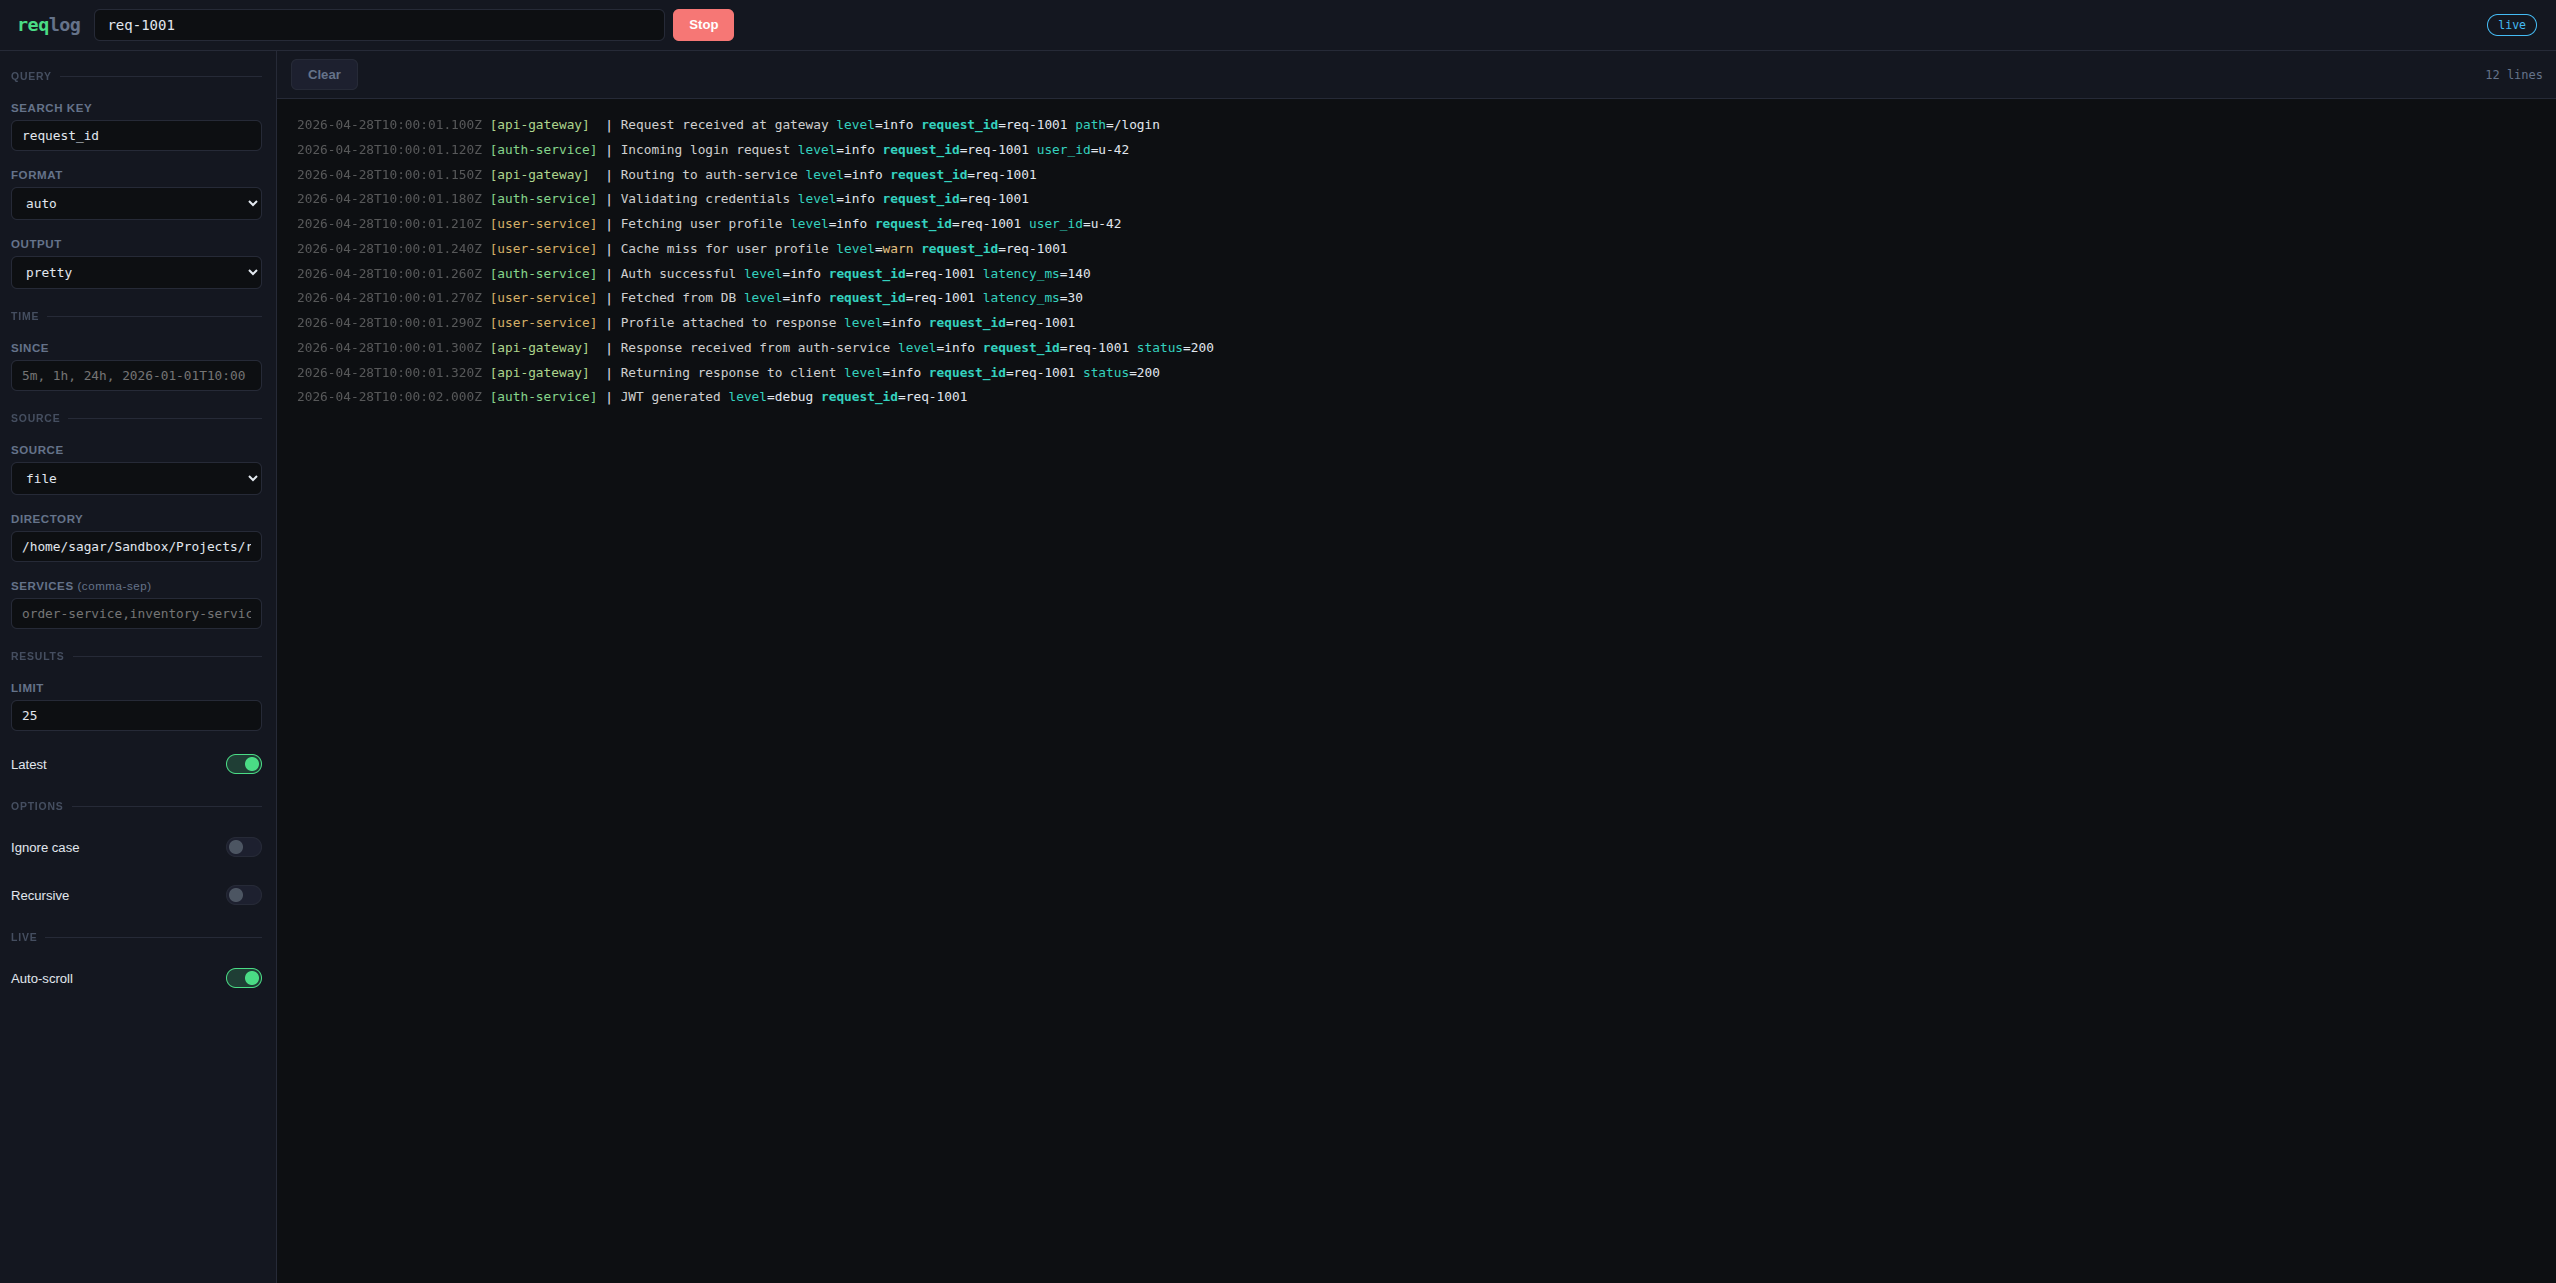
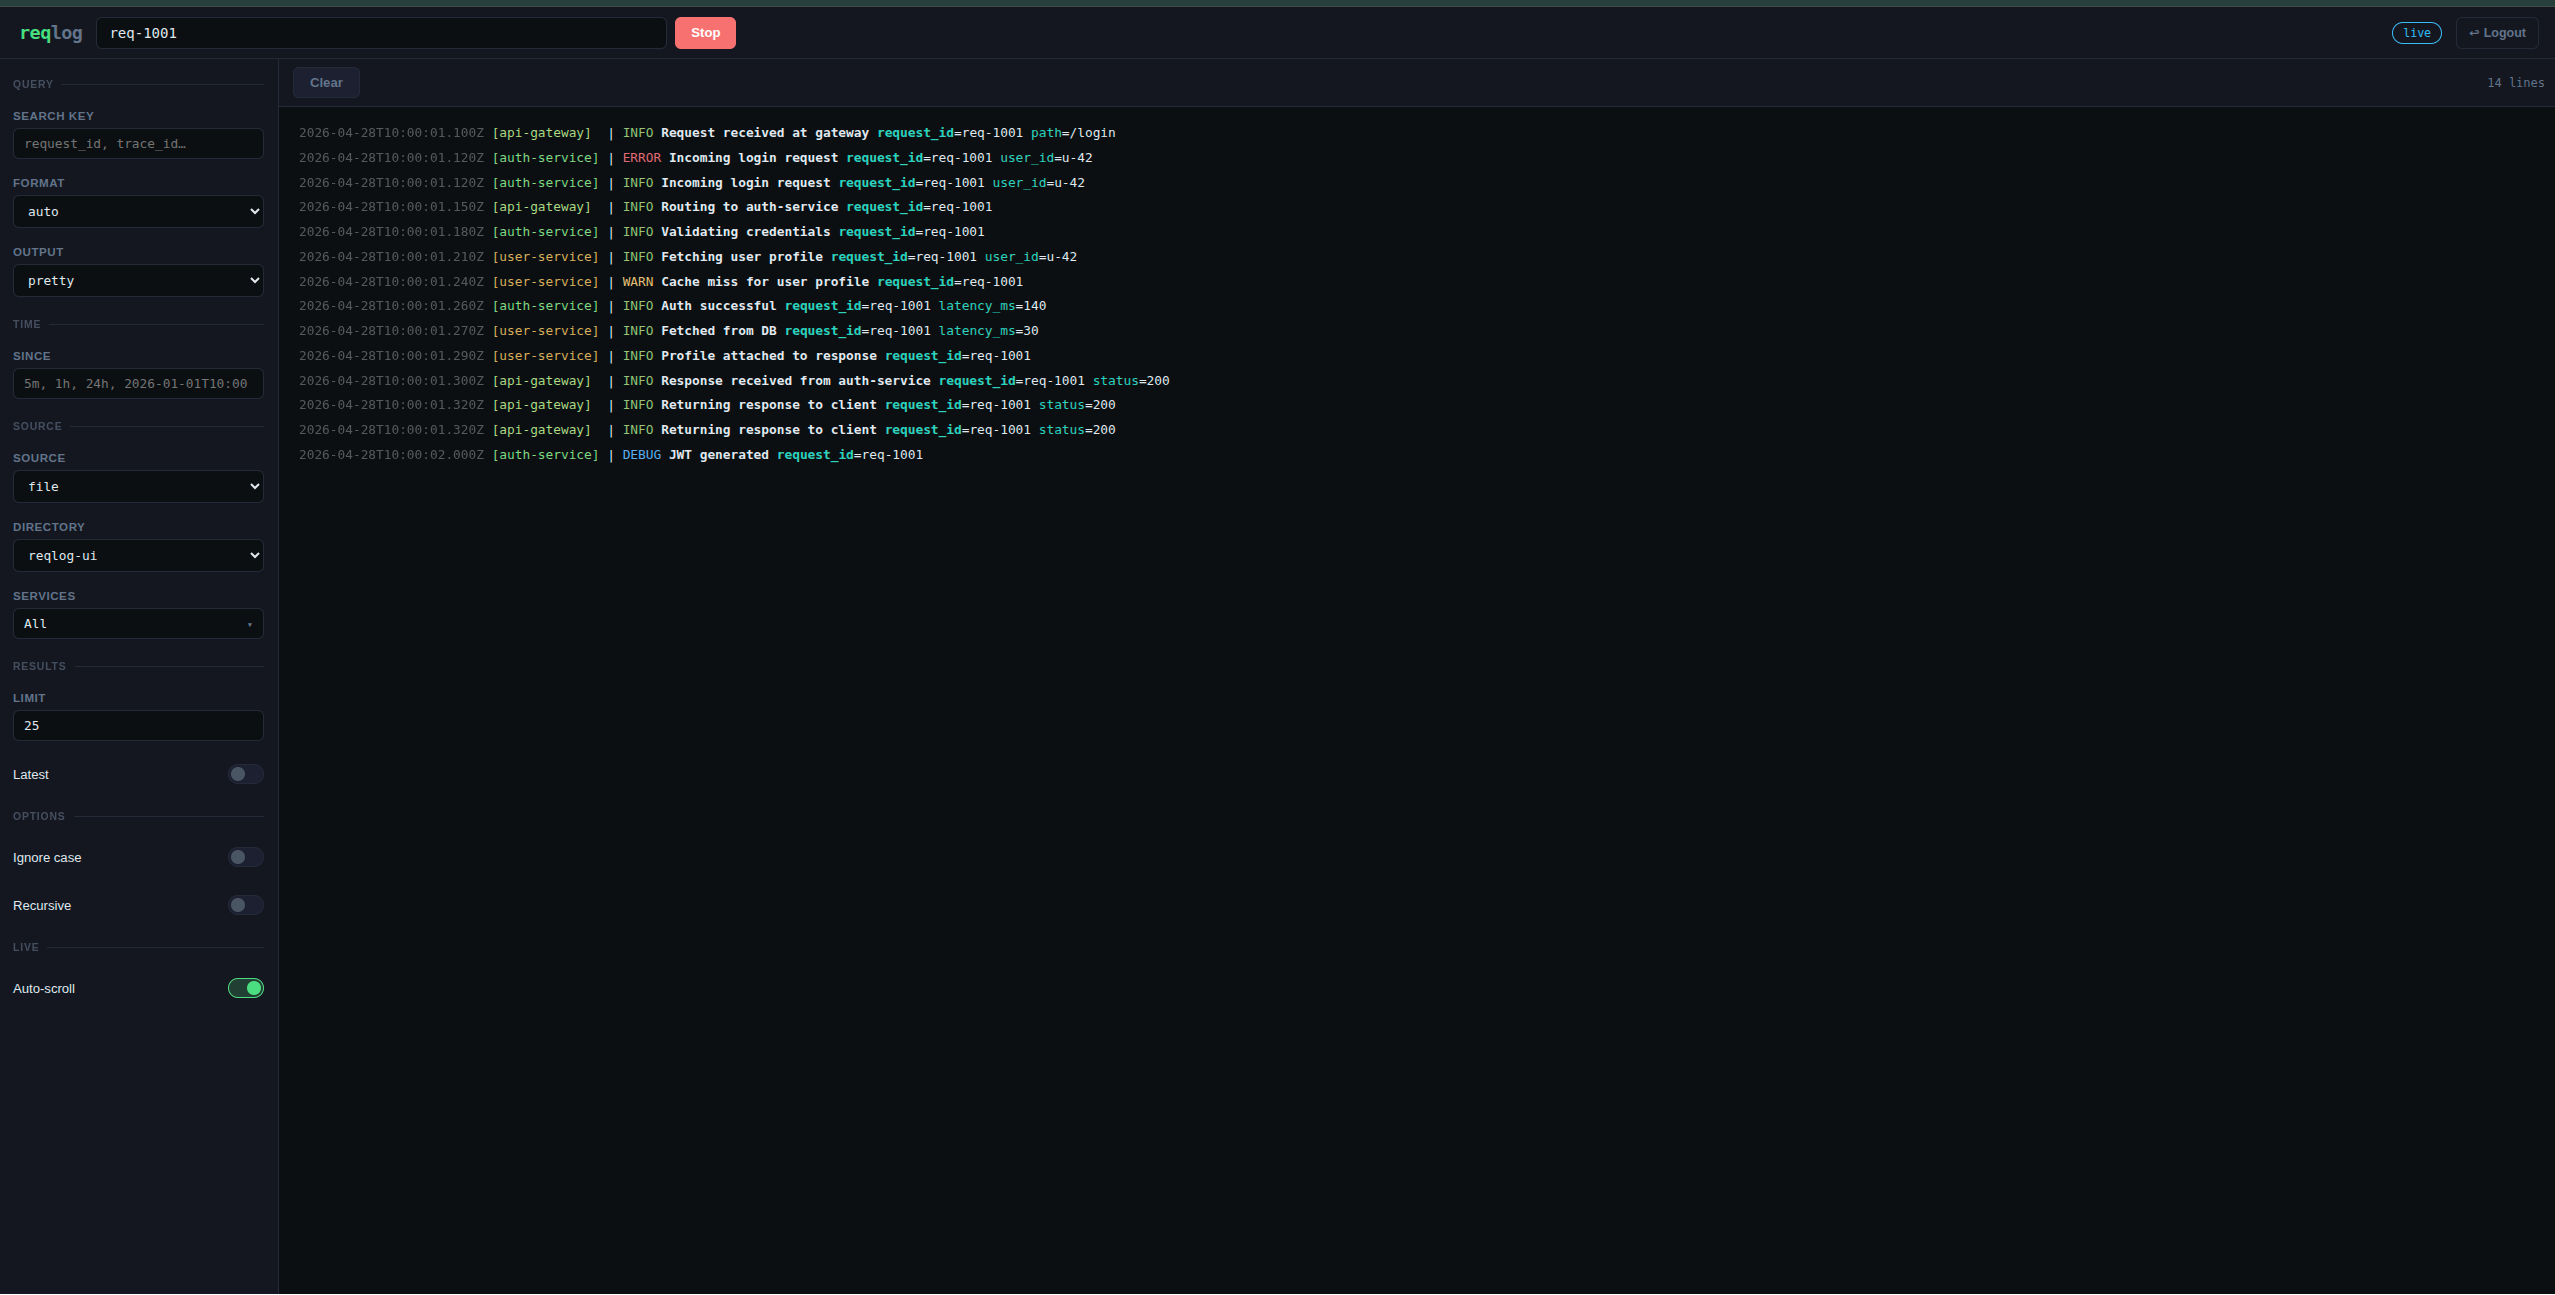
docs: update README for dynamic filters and config changes

diff --git a/readme.md b/readme.md
@@ -102,18 +102,56 @@ Browser → reqlog-ui → reqlog CLI → log files/containers
 
 ## Configuration
 
-| Variable                    | Description                                 | Default          |
-| --------------------------- | ------------------------------------------- | ---------------- |
-| `HTTP_AUTH_API_KEY`         | API key required to access the UI           | **required**     |
-| `HTTP_SERVER_URL`           | Address the server listens on               | `localhost:4000` |
-| `REQLOG_BINARY_PATH`        | Path to reqlog binary                       | `reqlog`         |
-| `REQLOG_EXECUTION_TIMEOUT`  | Max time allowed for log search execution   | `15m`            |
-| `HTTP_AUTH_JWT_SECRET`      | JWT secret key for auth cookie              | **required**     |
-| `REQLOG_MAX_LINES`          | Max number of log lines returned per search | `5000`           |
-| `REQLOG_SEARCH_CONCURRENCY` | Max concurrent search requests              | `5`              |
-| `REQLOG_STREAM_CONCURRENCY` | Max concurrent live stream connections      | `5`              |
-| `ENV_FILE`                  | .env path                                   | `.env`           |
-| `DISABLE_PRETTY_LOGS`       | disable pretty logs and output raw JSON     | `0`              |
+| Variable                      | Description                                                    | Default                  |
+| ----------------------------- | -------------------------------------------------------------- | ------------------------ |
+| `HTTP_AUTH_API_KEY`           | API key required to access the UI login                        | **required**             |
+| `HTTP_AUTH_JWT_SECRET`        | JWT secret key for HTTP-only auth cookie                       | **required**             |
+| `HTTP_SERVER_URL`             | Address the server listens on                                  | `localhost:4000`         |
+| `REQLOG_BINARY_PATH`          | Path to reqlog binary                                          | `reqlog`                 |
+| `REQLOG_EXECUTION_TIMEOUT`    | Max time allowed for log search execution                      | `15m`                    |
+| `REQLOG_MAX_LINES`            | Max number of log lines returned per search                    | `5000`                   |
+| `REQLOG_SEARCH_CONCURRENCY`   | Max concurrent search requests                                 | `5`                      |
+| `REQLOG_STREAM_CONCURRENCY`   | Max concurrent live stream connections                         | `5`                      |
+| `REQLOG_ALLOWED_DIRECTORIES`  | Allowed log directories shown in UI (`name:path` comma format) | `reqlog:/var/log/reqlog` |
+| `REQLOG_DOCKER_SERVICES_MODE` | Container source mode: `auto` or `manual`                      | `auto`                   |
+| `REQLOG_DOCKER_SERVICES`      | Container names for manual mode (`comma-separated`)            | empty                    |
+| `ENV_FILE`                    | `.env` path                                                    | `.env`                   |
+| `DISABLE_PRETTY_LOGS`         | Disable pretty logs and output raw JSON                        | `0`                      |
+
+### Directory Configuration
+
+Predefine searchable log directories shown in the UI:
+
+```env
+REQLOG_ALLOWED_DIRECTORIES=reqlog:/var/log/reqlog,app:/path/to/app/logs
+```
+
+This limits searchable locations and avoids arbitrary filesystem access.
+
+### Docker Services Configuration
+
+#### Auto mode (recommended)
+
+Automatically loads running containers:
+
+```env
+REQLOG_DOCKER_SERVICES_MODE=auto
+```
+
+Uses:
+
+```bash
+docker ps --format '{{.Names}}'
+```
+
+#### Manual mode
+
+Provide a predefined list of allowed services:
+
+```env
+REQLOG_DOCKER_SERVICES_MODE=manual
+REQLOG_DOCKER_SERVICES=order-service,inventory-service,payment-service
+```
 
 > See `.env.example` for all available environment variables.
 
@@ -136,6 +174,7 @@ Browser → reqlog-ui → reqlog CLI → log files/containers
 | -------------- | ------ |
 | v0.2.0         | v0.2.2 |
 | v0.3.0, v0.3.1 | v0.6.0 |
+| v0.4.0         | v0.7.1 |
 
 > Ensure compatible versions for correct behavior.
 
